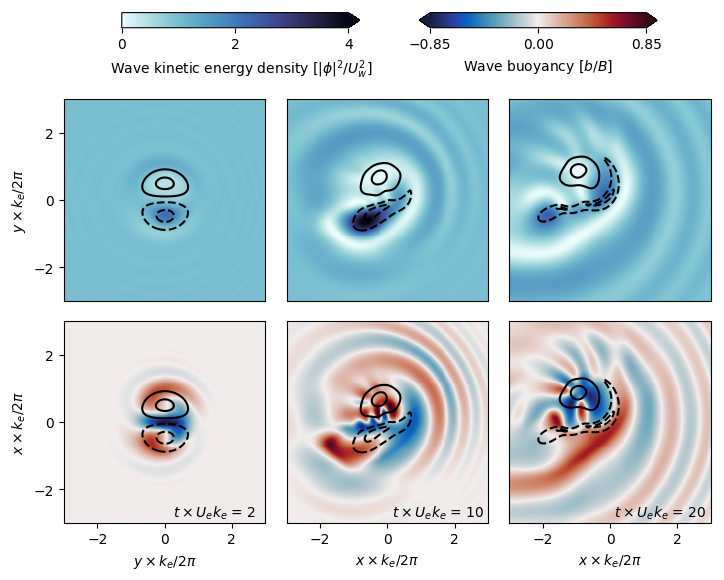
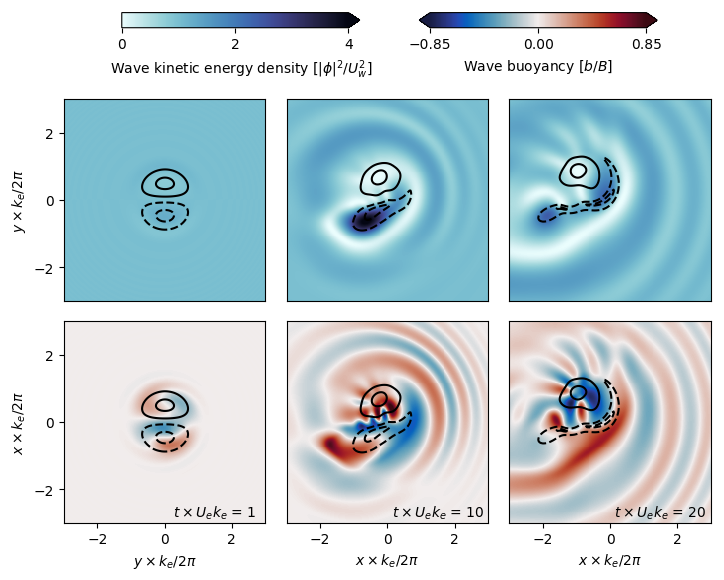
Updates

Changed region(s): [[0.1519, 0.6207, 0.3039, 0.8069], [0.1823, 0.2793, 0.2735, 0.4034]]

diff --git a/code/Figure2New.py b/code/Figure2New.py
@@ -79,18 +79,16 @@ gradphi2 = np.abs(phix)**2 + np.abs(phiy)**2
 a, b = -pxy, 0.5*(pxx-pyy)
 Ga =  a*( np.abs(phiy)**2 - np.abs(phix)**2 ) + 2*b*np.real(np.conj(phiy)*phix)
 
-
-
 qw1 = np.fft.ifft2(-wv2*phi2h).real/(4*f0)
 qw2 = (1j*J_phic_phi).real/(2*f0)
 qw = qw1+qw2
 qpsi = q-qw
 
 Fscale = 1e-5
-Fwx, Fwy = (0.5*h*np.conj(phi)*phix).imag/Fscale,  (0.5*h*np.conj(phi)*phiy).imag/Fscale
-
-
-Fwx, Fwy = np.ma.masked_array(Fwx,np.abs(Fwx)<1.5e-3), np.ma.masked_array(Fwy,np.abs(Fwx)<1.5e-3)
+Fwx, Fwy = (0.5*h*np.conj(phi)*phix).imag/Fscale,\
+                        (0.5*h*np.conj(phi)*phiy).imag/Fscale
+Fwx, Fwy = np.ma.masked_array(Fwx,np.abs(Fwx)<1.5e-3),\
+                        np.ma.masked_array(Fwy,np.abs(Fwx)<1.5e-3)
 
 OW =  alpha**2 - qpsi**2
 uw, vw, ww, pw, bw = wave_fields(phi,f0,lam2,snap['t'][()],k,l,m)
@@ -121,7 +119,7 @@ plt.contourf(x,y,Ga/Ga.max(),cga,vmin=-.75,vmax=.75,
                 cmap=cmocean.cm.balance,extend='both')
 
 a = np.ma.masked_where(OW < 0.0, OW)
-plt.contour(x,y,a,colors='k')
+plt.contour(x,y,np.fft.ifft2(ph),colors='k')
 plt.xlim(xlim)
 plt.ylim(xlim)
 

diff --git a/code/Figure1.py b/code/Figure1.py
@@ -39,7 +39,7 @@ k, l = np.meshgrid(k,l)
 #            '000000002666667.h5', '000000008000000.h5']
 
 #files = ['000000000016667.h5','000000002666667.h5', '000000008000000.h5']
-files = ['000000000600000.h5','000000002666667.h5', '000000005200000.h5']
+files = ['000000000300000.h5','000000002666667.h5', '000000005200000.h5']
 
 def plot_snapshot(fig, snap, panel = 1):
     """ Plot snapshot of vorticity and
